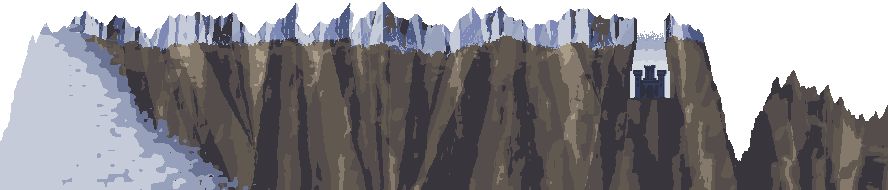
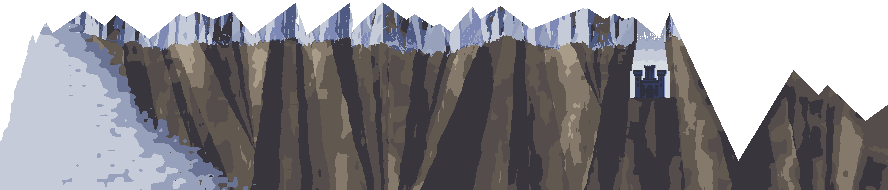
Lanternhold world lane, fix round 2 after lh-w1f2-3: the Weltmauer's skyline as clean peaks with V gaps and stronger arête masses, the cleft wall's end reaching the canvas's foot at C's east edge (a far seam showed behind it), the water in longer strands, the east gate rock a low shoulder, the lit e

diff --git a/games/lanternhold/Tests/WorldRebuildFix2Tests.swift b/games/lanternhold/Tests/WorldRebuildFix2Tests.swift
@@ -153,8 +153,15 @@ final class WorldRebuildFix2Tests: XCTestCase {
     /// The critic: "a warm half disc sits cut off at the screen's left edge" (the lord's lantern inside the world's
     /// end): the world's end hides every glow in its whole dark.
     func testTheWorldsEndHidesTheGlowInside() {
-        let desc = frame(timeOfDay: 0.97, focus: 0)
-        XCTAssertTrue(desc.emissives.contains { $0.sprite == .bankEnd && $0.kind == .occluder },
-                      "the end's dark occludes the glow behind it")
+        // Every glow on the world plane that overlaps the end's dark has the end's occluder after it.
+        for timeOfDay in [19.2 / 24, 0.97] {
+            let desc = frame(timeOfDay: timeOfDay, focus: 0)
+            let size = SpriteID.bankEnd.size
+            for (index, glow) in desc.emissives.enumerated() where glow.kind == .glow && glow.plane == .world {
+                guard glow.rect.x < Float(size.width) else { continue }
+                XCTAssertTrue(desc.emissives[index...].contains { $0.sprite == .bankEnd && $0.kind == .occluder },
+                              "\(glow.sprite) inside the world's end is hidden by its dark")
+            }
+        }
     }
 }

diff --git a/games/lanternhold/Core/FrameBuilder.swift b/games/lanternhold/Core/FrameBuilder.swift
@@ -851,7 +851,7 @@ enum FrameBuilder {
     /// (the gatehouse to the back gate), every `width` px, every second one mirrored; the fire's colour at the
     /// torches' strength.
     static let cleftGrazeSpan: ClosedRange<Double> = 700...1300
-    static let cleftGrazeGain: Float = 0.55
+    static let cleftGrazeGain: Float = 0.8
 
     private static func cleftGraze(ambient: AmbientSample, geometry: Geometry) -> [EmissiveInstance] {
         let torch = min(1, max(0, ambient.torchStrength))
@@ -897,7 +897,7 @@ enum FrameBuilder {
         return cleftShare(focus: focus) * torch * (1 - Double(wedgeMoonShare(ambient)))
     }
     /// How far the sky's top takes the horizon's colour in the cleft at dusk.
-    static let cleftDuskWarmth: Float = 0.7
+    static let cleftDuskWarmth: Float = 0.38
 
     /// The alpha of a shaft of light: the sun's strength (as the cast shadows', `sunShadowAlpha`) times its share.
     static func sunShaftAlpha(_ share: Float, ambient: AmbientSample) -> Float {

diff --git a/games/lanternhold/Core/EntityFrames.swift b/games/lanternhold/Core/EntityFrames.swift
@@ -1120,7 +1120,10 @@ enum EntityFrames {
         // did. They count against `maxEffectParticles`; none with Reduce Motion.
         var shed = 0
         if look == .two && !reduceMotion {
-            let sootTint = SIMD4<Float>(0.2, 0.18, 0.26, 1)
+            // World rebuild, fix round 2 (the critic: "black specks over the moor at noon look like dirt on the
+            // screen"): by day the flakes are pale ash and half seen; at night the dark soot as before.
+            let day = 1 - night
+            let sootTint = SIMD4<Float>(0.2 + 0.34 * day, 0.18 + 0.34 * day, 0.26 + 0.34 * day, 1 - 0.55 * day)
             let dustTint = SIMD4<Float>(0.66, 0.62, 0.6, 1)
             for index in order.reversed() where shed < maxSootParticles {
                 let c = s.creatures[index]

diff --git a/games/lanternhold/tools/cleftart.py b/games/lanternhold/tools/cleftart.py
@@ -126,7 +126,7 @@ def end_points():
     """Fix round 2 (the critic: "the cleft wall ends in a straight diagonal"): where the cleft opens to the valley the
     wall comes down as a broken ridge of crags: a polyline of short runs (4 to 16 px), most of them steep (a crag's
     face), some nearly level (a shoulder), a few rising again (a tooth standing up), small at first and bigger toward
-    the valley; scaled so it is under the canvas (205 rows down) by mid 1500. [(mid x, rows down)]"""
+    the valley; scaled so it reaches the canvas's foot at C's east edge (mid 1527), as before. [(mid x, rows down)]"""
     pts, x, y, k = [(float(END_X), 0.0)], float(END_X), 0.0, 0
     while x < CLEFT_X1 + 40:
         dx = 4 + 12 * h01(517, k)
@@ -143,8 +143,9 @@ def end_points():
         y = max(0.0, y + slope * dx)
         pts.append((x, y))
         k += 1
-    at = next(ya + (yb - ya) * (1500 - xa) / (xb - xa) for (xa, ya), (xb, yb) in zip(pts, pts[1:]) if xa <= 1500 < xb)
-    return [(px, py * 205.0 / at) for (px, py) in pts]
+    # (it reaches the canvas's foot only at C's east edge: the low crags hide what stands behind the cleft's mouth)
+    at = next(ya + (yb - ya) * (1527 - xa) / (xb - xa) for (xa, ya), (xb, yb) in zip(pts, pts[1:]) if xa <= 1527 < xb)
+    return [(px, py * 199.0 / at) for (px, py) in pts]
 
 
 END_POINTS = end_points()
@@ -480,14 +481,14 @@ def water():
 
             for (y, x, leg, since, left) in pts:
                 q = (y - 3 * f) % WATER_PERIOD
-                strand = (y - 3 * f) // 6
-                pos = q % 6
-                gap_from = 5 if h01(741, s_i, leg, strand % 3) < 0.5 else 4
+                strand = (y - 3 * f) // 9
+                pos = q % 9
+                gap_from = 8 if h01(741, s_i, leg, strand % 2) < 0.5 else 7
                 if since > 1 and pos >= gap_from:
                     continue                                   # a gap between strands
                 c = head if pos == 0 else core
                 put(x, y, c)
-                if leg and pos < gap_from - 1:
+                if (leg or since > 6) and pos < gap_from - 1:
                     put(x + 1, y, side)
                 if left <= 1:
                     put(x - 1, y, side)                        # it fans as it strikes the ledge
@@ -548,10 +549,10 @@ GATE = {
                    (1272, 45), (1275, 43), (1277, 31), (1281, 29), (1285, 20), (1289, 13), (1292, 6), (1294, 1)],
                   [(1255, 1260, 57), (1266, 1271, 40), (1278, 1284, 27)]),
     "gateRockR": (64, 70, 1436, 1467,
-                  [(1436, 1), (1440, 5), (1444, 8), (1448, 18), (1451, 20), (1453, 30), (1456, 32), (1458, 28),
-                   (1460, 40), (1463, 48), (1465, 46), (1467, 58), (1470, 64), (1473, 62), (1476, 55), (1479, 56),
-                   (1482, 52), (1485, 50), (1488, 44), (1491, 40), (1494, 30), (1496, 20), (1498, 9), (1499, 2)],
-                  [(1445, 1450, 16), (1456, 1461, 28)]),
+                  [(1436, 1), (1441, 4), (1446, 6), (1449, 13), (1453, 15), (1456, 14), (1458, 22), (1462, 25),
+                   (1465, 24), (1467, 36), (1470, 44), (1474, 45), (1477, 41), (1481, 42), (1485, 39), (1488, 36),
+                   (1491, 31), (1494, 24), (1496, 16), (1498, 8), (1499, 2)],
+                  [(1449, 1453, 11), (1458, 1462, 20)]),
 }
 
 
@@ -654,6 +655,36 @@ def aretes():
 ARETES = aretes()
 
 
+def clean_peaks(img):
+    """Fix round 2 (the critic: "the peak strip is torn white with blue bubble sky"): the Weltmauer's skyline as clean
+    peaks: between two summits (the highest points 14 px either side) the sky's gap is a V of two straight edges down
+    to the gap's lowest point; rock above the V is cut away, sky below it filled with the pixel under it."""
+    w, h = img.w, img.h
+    out = PA.Image(w, h, list(img.px))
+    tops = [next((y for y in range(h) if img.get(x, y)[3]), h) for x in range(w)]
+    peaks = [x for x in range(w) if tops[x] < h and tops[x] == min(tops[max(0, x - 14):x + 15])
+             and (not 0 < x < w - 1 or tops[x - 1] >= tops[x])]
+    # one summit per flat top
+    peaks = [x for i, x in enumerate(peaks) if i == 0 or x - peaks[i - 1] > 3]
+    for a, b in zip(peaks, peaks[1:]):
+        if b - a < 6:
+            continue
+        g = max(range(a, b + 1), key=lambda x: tops[x])
+        for x in range(a + 1, b):
+            if x <= g:
+                t = tops[a] + (tops[g] - tops[a]) * (x - a) / float(max(1, g - a))
+            else:
+                t = tops[g] + (tops[b] - tops[g]) * (x - g) / float(max(1, b - g))
+            t = int(round(t))
+            for y in range(h):
+                p = img.get(x, y)
+                if y < t and p[3]:
+                    out.set(x, y, (0, 0, 0, 0))
+                elif y >= t and not p[3] and y < tops[x]:
+                    out.set(x, y, img.get(x, tops[x]))
+    return out
+
+
 def ridges(path):
     """The Weltmauer's masses: under the snow, the painting's fine vertical streaks are smoothed across (a 7 x 3
     average of its granite steps), then the wall is cut into buttresses by arêtes that run down from the summits at a
@@ -665,6 +696,7 @@ def ridges(path):
     ramp = [col(n) for n in ("rockDeep", "rockDark", "rock", "rockLight", "rockPale")]
     index = {c: i for i, c in enumerate(ramp)}
     w, h = img.w, img.h
+    img = clean_peaks(img)
     tops = [next((y for y in range(h) if img.get(x, y)[3]), h) for x in range(w)]
     src = [[index.get(img.get(x, y)) for x in range(w)] for y in range(h)]
     out = PA.Image(w, h, list(img.px))
@@ -681,8 +713,8 @@ def ridges(path):
             if src[y][x] is None:
                 continue
             acc, n = 0.0, 0
-            for dy in (-1, 0, 1):
-                for dx in range(-3, 4):
+            for dy in (-2, -1, 0, 1, 2):
+                for dx in range(-5, 6):
                     yy, xx = y + dy, x + dx
                     if 0 <= yy < h and 0 <= xx < w and src[yy][xx] is not None:
                         acc += src[yy][xx]
@@ -695,12 +727,12 @@ def ridges(path):
                 a, b = xs[i], xs[i + 1]
                 u = (x - a) / max(1.0, b - a)
                 gully = 0.5 + 0.12 * (h01(961, i) - 0.5)
-                if u < 0.22:
-                    shift = -0.8                      # the arête's east flank, in its shade
-                elif u > 0.7:
-                    shift = 0.9                       # the next arête's west flank, in the light
+                if u < 0.24:
+                    shift = -1.3                      # the arête's east flank, in its shade
+                elif u > 0.68:
+                    shift = 1.3                       # the next arête's west flank, in the light
                 elif abs(u - gully) < 0.05:
-                    shift = -1.0                      # the gully between them
+                    shift = -1.6                      # the gully between them
             under = y - tops[x]
             fade = RF.ss((under - 6) / 18.0)          # the masses come out under the snow caps
             idx[y][x] = max(0, min(4, int(round(v + shift * fade))))

diff --git a/games/lanternhold/tools/rockfield.py b/games/lanternhold/tools/rockfield.py
@@ -591,9 +591,9 @@ def paint(field, ramp_name, gain=1.0, lift=0.0, dither=0.0, snow_rows=0, snow_sh
                                                                      not field.inside(x - 1, y - 1)) or second
                 if lit_edge and rim_broken:
                     # fix round 2 (the critic: "a continuous pale outline stroke around the rock"): the light catches
-                    # the edge in pieces (3 to 8 px, a third of them dark), one pixel deep, never an outline
-                    seg = int((gx + 3 * y) // (3 + 5 * h01(seed, 979, int((gx + 3 * y) // 9))))
-                    lit_edge = not second and h01(seed, 977, seg) < 0.62
+                    # the edge in pieces (2 to 6 px, more than half of them dark), one pixel deep, never an outline
+                    seg = int((gx + 3 * y) // (2 + 4 * h01(seed, 979, int((gx + 3 * y) // 9))))
+                    lit_edge = not second and h01(seed, 977, seg) < 0.45
                 if lit_edge:
                     # (fix round 1: on a slope the edge is two pixels deep, so it reads as one line, not dots)
                     c = snow[1] if snow_rows and y < snow_rows else ramp[min(n - 1, max(k, n - 3) + 2 - second)]

diff --git a/games/lanternhold/DESIGN.md b/games/lanternhold/DESIGN.md
@@ -3298,7 +3298,7 @@ warm valley beyond the back gate).
   joints, cast shadows marched toward the light, a cavity term, less light deeper in the cleft), `tools/cleftart.py`
   cuts the cleft and the steps and the gate's rock from it, `tools/fogart.py` paints the fog, the bank and the Gloom's
   strips. The rock is painted in clean clusters without dither (Louis' art bar); only the fog's alpha is dithered.
-  ART-look2.md section 21 has the notes, SPRITES.md "The rock and the fog" the ids.
+  ART-look2.md section 22 has the notes, SPRITES.md "The rock and the fog" the ids.
 - **Tests**: `FrameBuilderTests.testNoFogEdgeEndsInTheViewWithoutAFeatherOrANeighbour` (B4: every fog sprite's art
   feathers out, the hour's tiles overlap complementarily, and from the bank to the river at three hours, with and
   without the Gloom's fog, no fog instance's edge column stands in the view without a feather or a neighbour);
@@ -3380,6 +3380,50 @@ the muddy wall behind the gatehouse). Where they differ the director's note wins
   matter, not the bank's art); at night the HUD strip covers the screen's top centre, so the moon stands low in its
   wedge to be seen under it; the cleft's ledge drifts and threads of water are the brightest marks on the wall at
   night; step B keeps its height (the director).
+#### Step world-1, fix round 2 (the critic's 6.5 of 10, look 2; 15.11.2026)
+
+The critic (`ci-out/director/world-1-rock-fog-critic2.md`) did not pass round lh-w1f1-4: two blockers (the cleft
+wall's water threads read as poles and street lamps; its ledges and cracks as ruler lines, a grid of flat polygons)
+and six highs. Art notes: ART-look2.md 22.7; ids: SPRITES.md "The rock and the fog".
+
+- **The speed kit** (the director's note of 22:36): `App/SweepRunner.swift`, `UITests/SweepKit.swift`,
+  `Tests/SweepPlanTests.swift` (cherry-picked from claude/lh-speed) and `WorldSweepUITests` as `SweepKit` calls (the
+  director's patch); the sweep of 59 shots runs in about 5 minutes on the runner.
+- **The cleft wall** (`tools/cleftart.py`, `tools/rockfield.py`, all opt-in so the other rock keeps its look): no
+  bands; lens-shaped ledges scattered over the face (`pods`, `Massif.spots` with a lean), creased facets on a warped,
+  staggered, sheared grid (`Massif.crease`, `facet_seed`, `facet2`) with broken, tapering cracks, a swell on every
+  face (`face_relief`), the slit's cold light on whole facets (`Field.fsy`), snow drifts of their own sizes on half the
+  high ledges, no lit rim along the screen's top row (`Field.at` lets row 0 go on upward), the lit edge in broken
+  pieces (`paint(rim_broken:)`), the wall's end a broken crag ridge (`end_points`), C a value darker in the Throat
+  (`cleft_gain`). The ruler check: `WorldRebuildFix2Tests.testTheCleftWallHasNoRulerLines` (no horizontal line over
+  52 px, the critic's 240 px, joining aligned pieces as the eye does).
+- **The water**: two threads (`THREADS`, `FrameBuilder.cleftThreads` (893, 26) and (1258, 30)), each from a notch
+  with a wet stain, in an S over two ledges of its own into spray on a third; `cleftWater` is 14x54 in 12 frames (six
+  per thread, `cleftWaterFrames`, frame = thread × 6 + step), at about two thirds of the old white; the ledges stop
+  short of its column (`Massif.cuts`).
+- **The steps**: the tor (`throatStepB`) climbs in broken crag steps to a shoulder at 70 % of the screen and rises
+  only behind the warden statue (its stepped backing must stand in rock); C stands at full height. **The gate
+  rocks**: shoulders with three tongues over each tower's outer edge and ashlar on the notches, no outline, no spire.
+- **The night bank** (`Core/DarknessBankLook.swift`): the sheets apart in value at night (A 0.62/0.72/1.16 at 0.7
+  alpha, B 0.5/0.56/0.9, C 0.3/0.34/0.62), the eyes on one period (`bankEyePeriod` 7 s) with the slots a fifth
+  apart (at most one slot shut at a time: two or three pairs on every night frame), above the low roll (near 26 to
+  56 rows, far 46 to 128); `bankEnd` occludes the glow inside the world's end (`FrameBuilder.build`).
+- **Dusk in the cleft** (`FrameBuilder.cleftDuskShare`, `wedgeMoonShare`): no wedge moon until the night's moon is
+  up, no stars, the sky's top 0.7 of the way to the horizon's colour inside the walls at dusk. **The warm graze**
+  (`cleftGraze`, `FrameBuilder.cleftGraze`): glow in `fireOrange` × torches × 0.55 behind the buildings, mid 700 to
+  1300. **The moon** stands 36 rows under the screen's top (`look2SlitMoonTop`; the HUD's stat panel ends at row 33).
+- **The Weltmauer and the deck**: arêtes and buttress masses (`cleftart.py ridges`), the slot patch without dotted
+  columns, no high clouds in the peak gaps (`SceneLayout.dropsInLook2` drops look 1's sky clouds; look 2's clouds-plane
+  deck is gone), `cloudDeck` 720x100 with towers and a horizontal veil.
+- **The cobbles** end stone by stone over the tile at world 2432 (`laneCobbleEnd`, `look2CobbleEnd`). **The soot
+  flakes** of the brutes are pale and half seen by day (`EntityFrames`, two lines).
+- **Tests**: `WorldRebuildFix2Tests` (ruler lines, at most two threads per screen, the moon under the HUD at every
+  camera at dusk and night, dusk in the cleft unlike night, the warm graze, two or three eye pairs at every moment,
+  the world's end hides the glow); `Look2FrameTests.testTheLaneByRegion` knows `laneCobbleEnd`.
+- **The art lock**: several lanes' shells whose command lines name a python art script (a heredoc in the same
+  command) match the lock's own check for image jobs, so the lock waits its full 20 minutes for a shell that is only
+  waiting for the lock. This round built its last sprites with `careful.sh` in the scratchpad (one at a time, only
+  while no python3 or sips process runs and the CPU is under 70 °C).
 <!-- END world lane: World rebuild (14.11.2026) -->
 
 ## Risks
